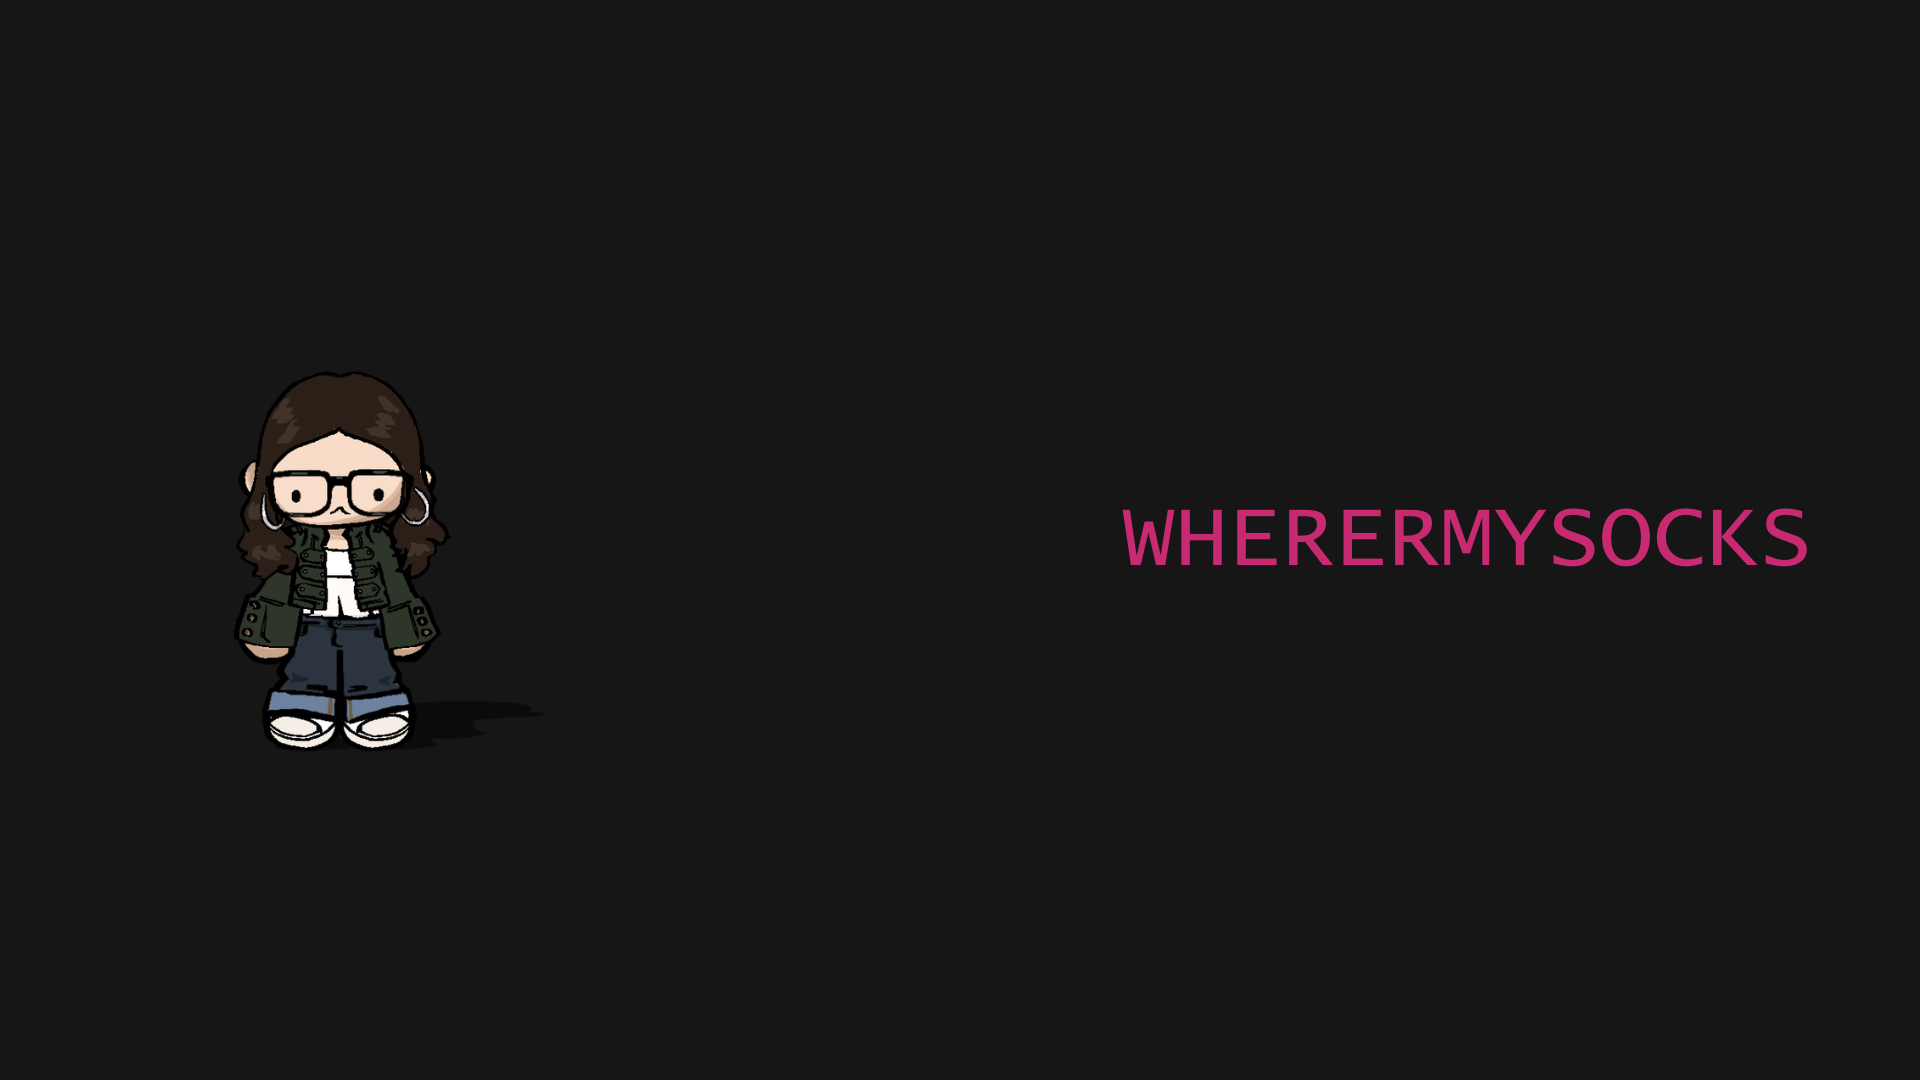
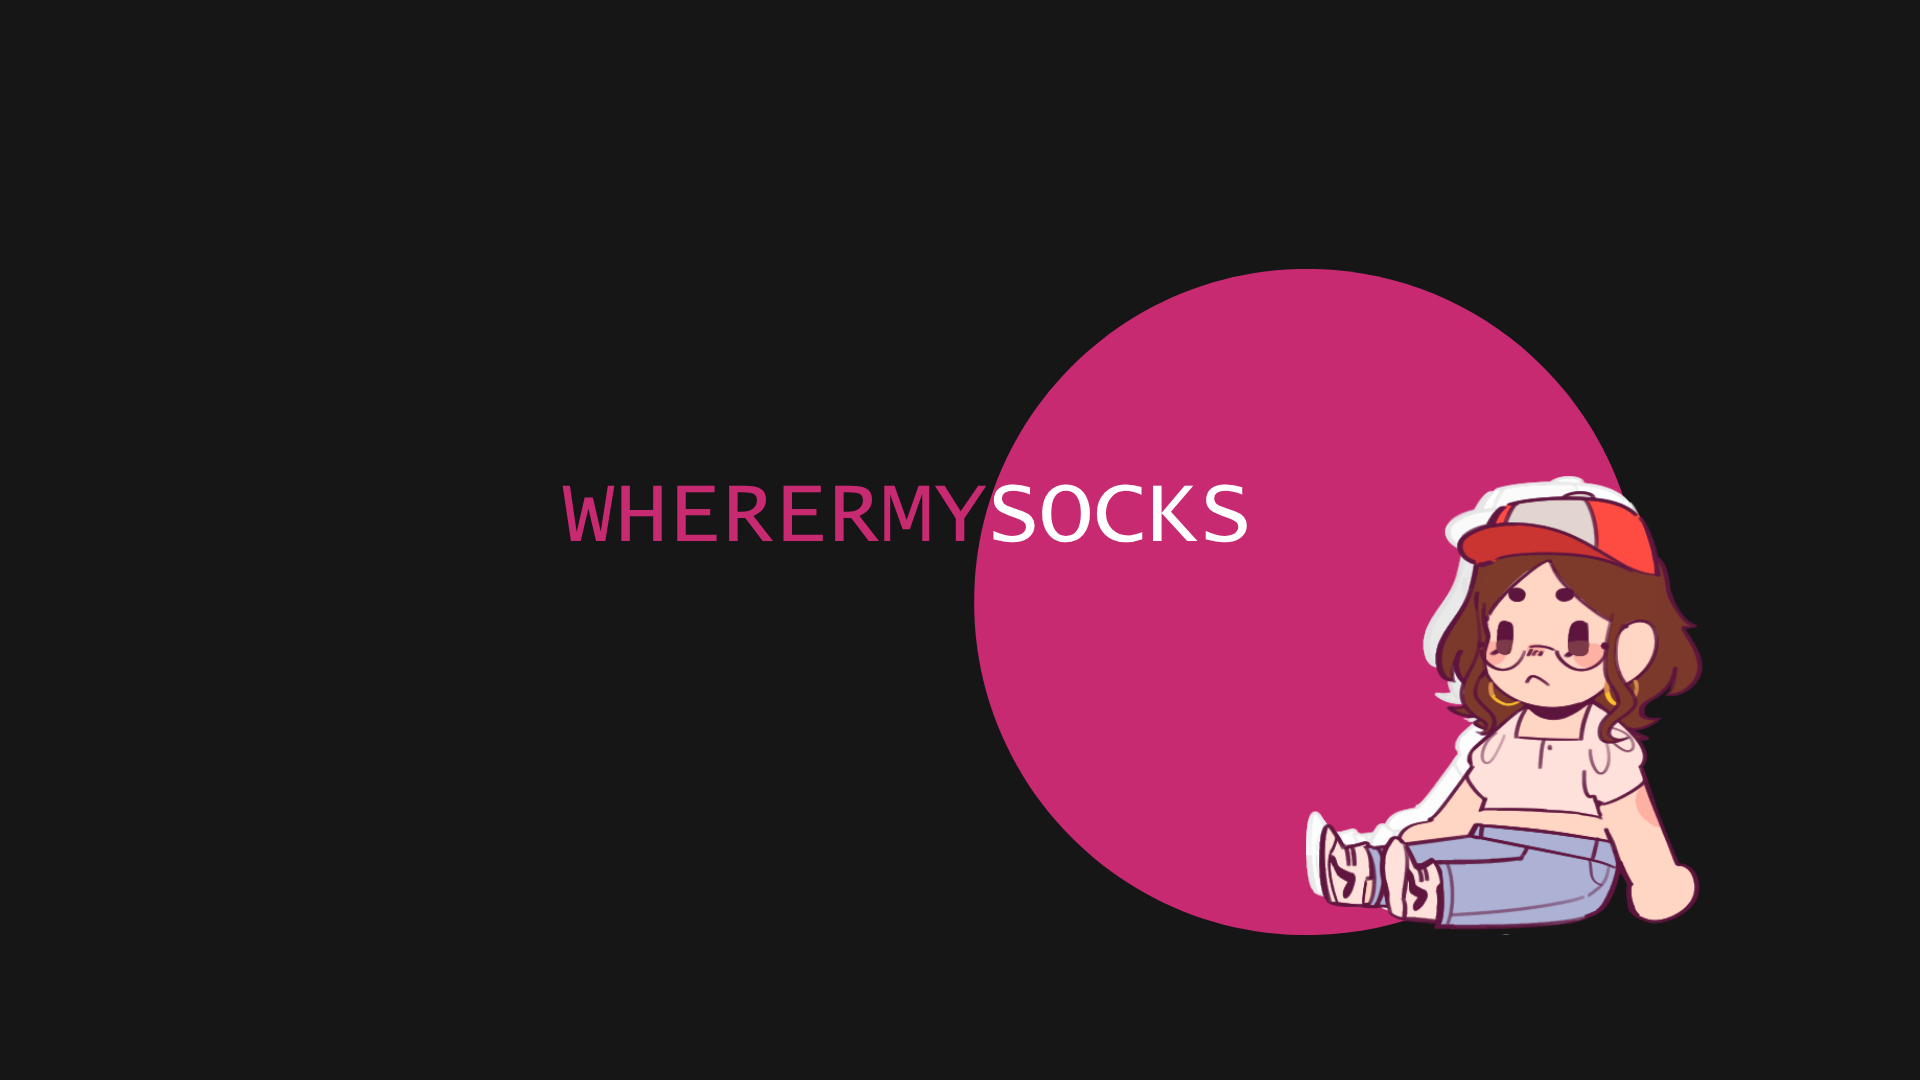
sitebox again

Changed region(s): [[0.2812, 0.2444, 0.9375, 0.8861], [0.125, 0.3667, 0.2188, 0.7028]]

diff --git a/public/elements.css b/public/elements.css
@@ -7,17 +7,21 @@
 /* Must start with ".site-box". Change how your website will appear on main nekoweb site: https://lune.dimden.dev/405a44b7e5.png */
 .site-box {
     text-align: center;
-    background-image: url("https://wherermysocks.org/assets/images/sitebox.png"); /* Only nekoweb URLs allowed, use full url to your site like https://example.nekoweb.org/images/coolbg.png */
+    background-image: url(https://wherermysocks.nekoweb.org/assets/images/sitebox.png); /* Only nekoweb URLs allowed, use full url to your site like https://example.nekoweb.org/images/coolbg.png */
     background-repeat: no-repeat;
-    color: #b08271;
-    font-size: 12px;
+    border-radius: 25px;
 }
+
+.sitebox .sitefeature {
+    display: none;
+}
+
 .site-box > a > p {
-    color: var(--darkbrown);
+    color: var(--pink);
     font-weight: bold;
 }
 .site-box > a > span {
-    color: var(--darkbrown);
+    color: var(--darkpink);
 }
 
 /* Style for your post box (must start with ".post-box") */

diff --git a/public/03codejourney.html b/public/03codejourney.html
@@ -9,7 +9,16 @@
 	<div class="page">
 		<h1>CODE JOURNEY</h1>
 		<p>I'm a beginner coder and have never made a website before.<br>
-			As of [9/20/2026], you are seeing the 2nd version of this website. Version in this case just means a whole page revamp.</p>
+			As of [9/20/2026], you are seeing the 2nd version of this website. Version in this case just means a whole page revamp.</p><br>
+			<h3>Mini to-do list</h3>
+			<ul>
+				<li>Make media page</li>
+				<li>Make site button</li>
+				<li>Work on sitebox (have been trying but not working...)</li>
+				<li>Make written works page</li>
+				<li>Guestbook</li>
+				<li>Status bar(?)(undecided)</li>
+			</ul>
 		<h2>Chronological update log:</h2>
 		<ul>
 			<li><b>[9/21/2026]:</b> Managed to connect VS Code -> GitHub -> NekoWeb so changes are reflected automatically. It's pretty straightforward but because I've never even used GitHub, I spent 3 hrs on it...<br>

diff --git a/public/index.html b/public/index.html
@@ -4,7 +4,7 @@
     <meta charset="UTF-8">
     <meta http-equiv="X-UA-Compatible" content="IE=edge">
     <meta name="viewport" content="width=device-width, initial-scale=1.0">
-	<title>wherermysocks</title>
+	<title>Wassup</title>
 	<link rel="stylesheet" type="text/css" href="style.css">
 	<link rel="icon" href="assets/images/favicon.gif" type="image/gif">
 </head>
